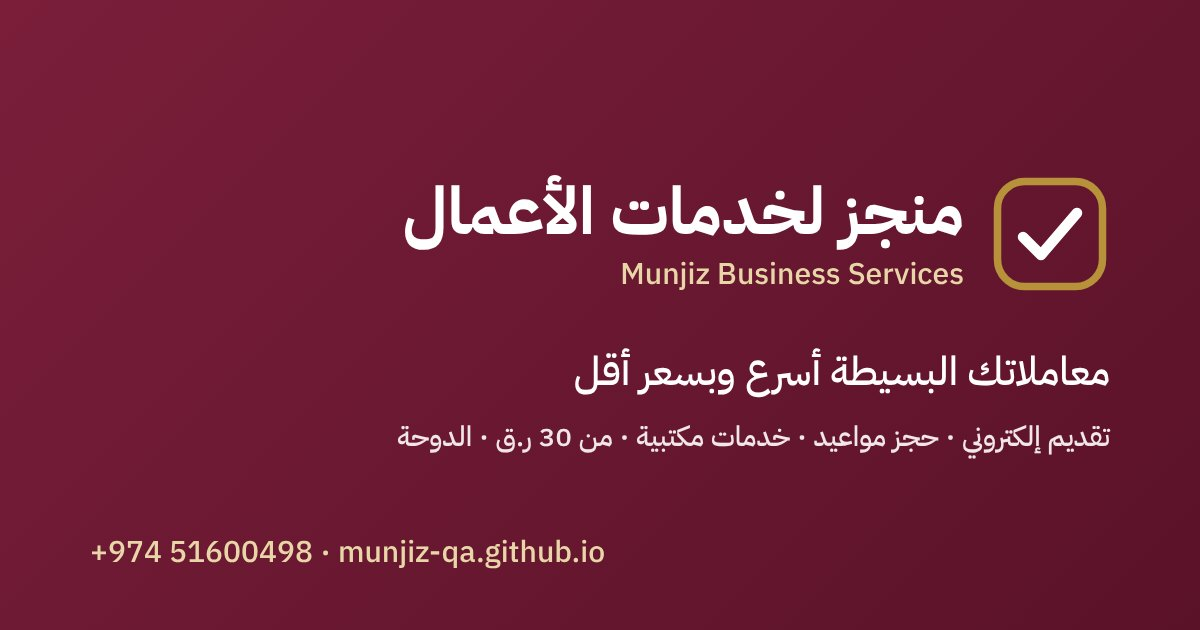
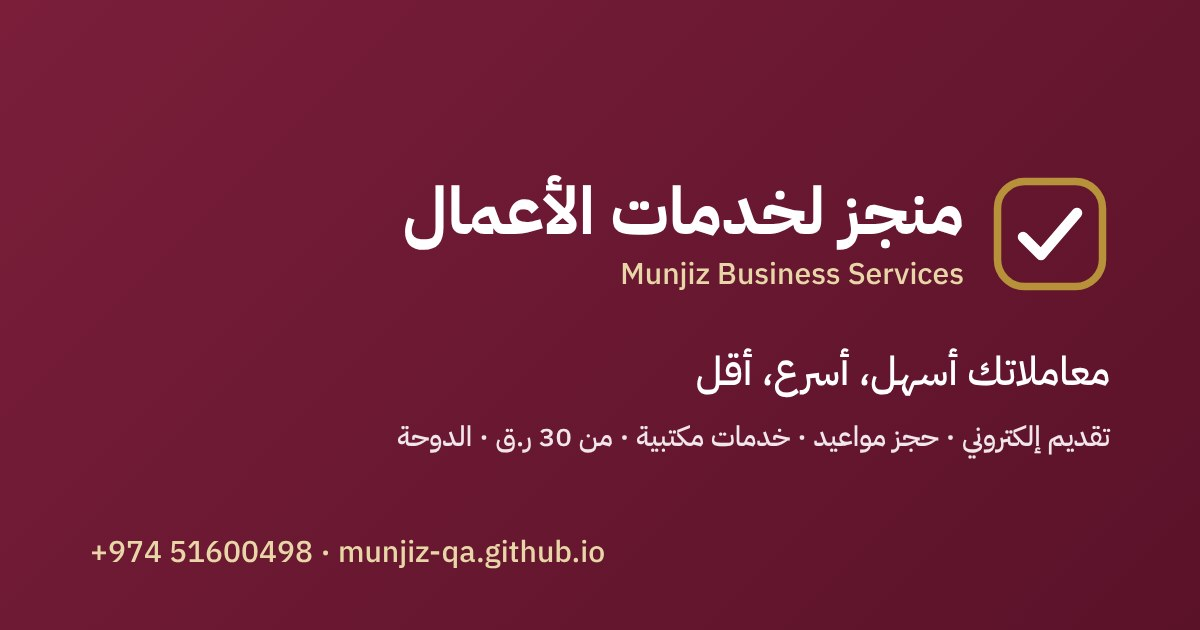
الشعار الجديد: معاملاتك أسهل، أسرع، أقل
Claude-Session: https://claude.ai/code/session_01X5QhTWfQsCsEYv7svNVuo8

Changed region(s): [[0.4625, 0.5429, 0.8017, 0.6333], [0.8325, 0.573, 0.8633, 0.6032]]

diff --git a/index.html b/index.html
@@ -6,10 +6,10 @@
 <title>منجز لخدمات الأعمال | خدمات حكومية مساعدة بأسعار مخفضة في الدوحة</title>
 <meta name="description" content="منجز لخدمات الأعمال في الدوحة: تقديم إلكتروني للمعاملات البسيطة وحجز مواعيد وخدمات مكتبية مساعدة بأسعار تبدأ من 30 ر.ق، وباقتان تبدأان من 490 ر.ق شهرياً.">
 <meta property="og:title" content="منجز لخدمات الأعمال">
-<meta property="og:description" content="من المعاملة إلى الإنجاز. خدمات حكومية مساعدة سريعة وبأسعار مخفضة في الدوحة.">
+<meta property="og:description" content="معاملاتك أسهل، أسرع، أقل. خدمات حكومية مساعدة سريعة وبأسعار مخفضة في الدوحة.">
 <meta property="og:type" content="website">
 <meta property="og:url" content="https://munjiz-qa.github.io/">
-<meta property="og:image" content="https://munjiz-qa.github.io/assets/og.jpg">
+<meta property="og:image" content="https://munjiz-qa.github.io/assets/og.jpg?v=2">
 <meta property="og:image:width" content="1200">
 <meta property="og:image:height" content="630">
 <meta property="og:locale" content="ar_QA">
@@ -19,7 +19,7 @@
 <link rel="apple-touch-icon" href="assets/icon-180.png">
 <link rel="manifest" href="manifest.webmanifest">
 <link rel="alternate" hreflang="x-default" href="https://munjiz-qa.github.io/">
-<script type="application/ld+json">{"@context": "https://schema.org", "@type": "ProfessionalService", "name": "منجز لخدمات الأعمال", "legalName": "منجز لخدمات الأعمال ذ.م.م", "alternateName": "Munjiz Business Services LLC", "url": "https://munjiz-qa.github.io/", "logo": "https://munjiz-qa.github.io/assets/icon-512.png", "image": "https://munjiz-qa.github.io/assets/og.jpg", "telephone": "+97451600498", "email": "munijizqa@gmail.com", "priceRange": "30–990 QAR", "currenciesAccepted": "QAR", "address": {"@type": "PostalAddress", "addressLocality": "Doha", "addressCountry": "QA"}, "areaServed": {"@type": "Country", "name": "Qatar"}, "availableLanguage": ["ar", "en"], "description": "خدمات حكومية مساعدة في الدوحة: تقديم إلكتروني للمعاملات البسيطة، حجز مواعيد، تعبئة نماذج وخدمات مكتبية بأسعار تبدأ من 30 ر.ق."}</script>
+<script type="application/ld+json">{"@context": "https://schema.org", "@type": "ProfessionalService", "name": "منجز لخدمات الأعمال", "legalName": "منجز لخدمات الأعمال ذ.م.م", "alternateName": "Munjiz Business Services LLC", "url": "https://munjiz-qa.github.io/", "logo": "https://munjiz-qa.github.io/assets/icon-512.png", "image": "https://munjiz-qa.github.io/assets/og.jpg?v=2", "telephone": "+97451600498", "email": "munijizqa@gmail.com", "priceRange": "30–990 QAR", "currenciesAccepted": "QAR", "address": {"@type": "PostalAddress", "addressLocality": "Doha", "addressCountry": "QA"}, "areaServed": {"@type": "Country", "name": "Qatar"}, "availableLanguage": ["ar", "en"], "description": "خدمات حكومية مساعدة في الدوحة: تقديم إلكتروني للمعاملات البسيطة، حجز مواعيد، تعبئة نماذج وخدمات مكتبية بأسعار تبدأ من 30 ر.ق."}</script>
 <link rel="canonical" href="https://munjiz-qa.github.io/">
 <link rel="alternate" hreflang="ar" href="https://munjiz-qa.github.io/">
 <link rel="alternate" hreflang="en" href="https://munjiz-qa.github.io/en/">
@@ -48,7 +48,7 @@
 
 <section class="hero" id="home"><div class="wrap">
   <div>
-    <h1>معاملاتك البسيطة <em>أسرع وبسعر أقل</em></h1>
+    <h1>معاملاتك <em>أسهل، أسرع، أقل</em></h1>
     <p>منجز لخدمات الأعمال مكتب خدمات حكومية مساعدة في الدوحة. نقدم التقديم الإلكتروني للمعاملات البسيطة، وحجز المواعيد، وتعبئة النماذج، والخدمات المكتبية، بأسعار تبدأ من 30 ر.ق.</p>
     <div class="cta"><a class="btn pri" href="#services">استعرض الخدمات والأسعار</a><a class="btn ghost" href="#request">اطلب عرض سعر</a></div>
     <p class="trust">شفافية ووضوح في التعامل · الطلب على واتساب أو البريد</p>

diff --git a/en/index.html b/en/index.html
@@ -6,10 +6,10 @@
 <title>Munjiz Business Services | Low-cost supporting government services in Doha</title>
 <meta name="description" content="Munjiz Business Services in Doha: online submission of simple government transactions, appointment booking and office services from 30 QAR, with two packages from 490 QAR a month.">
 <meta property="og:title" content="Munjiz Business Services">
-<meta property="og:description" content="From transaction to done. Fast, low-cost supporting government services in Doha.">
+<meta property="og:description" content="Your transactions: easier, faster, for less. Fast, low-cost supporting government services in Doha.">
 <meta property="og:type" content="website">
 <meta property="og:url" content="https://munjiz-qa.github.io/en/">
-<meta property="og:image" content="https://munjiz-qa.github.io/assets/og.jpg">
+<meta property="og:image" content="https://munjiz-qa.github.io/assets/og.jpg?v=2">
 <meta property="og:image:width" content="1200">
 <meta property="og:image:height" content="630">
 <meta property="og:locale" content="en_US">
@@ -19,7 +19,7 @@
 <link rel="apple-touch-icon" href="../assets/icon-180.png">
 <link rel="manifest" href="../manifest.webmanifest">
 <link rel="alternate" hreflang="x-default" href="https://munjiz-qa.github.io/">
-<script type="application/ld+json">{"@context": "https://schema.org", "@type": "ProfessionalService", "name": "منجز لخدمات الأعمال", "legalName": "منجز لخدمات الأعمال ذ.م.م", "alternateName": "Munjiz Business Services LLC", "url": "https://munjiz-qa.github.io/", "logo": "https://munjiz-qa.github.io/assets/icon-512.png", "image": "https://munjiz-qa.github.io/assets/og.jpg", "telephone": "+97451600498", "email": "munijizqa@gmail.com", "priceRange": "30–990 QAR", "currenciesAccepted": "QAR", "address": {"@type": "PostalAddress", "addressLocality": "Doha", "addressCountry": "QA"}, "areaServed": {"@type": "Country", "name": "Qatar"}, "availableLanguage": ["ar", "en"], "description": "خدمات حكومية مساعدة في الدوحة: تقديم إلكتروني للمعاملات البسيطة، حجز مواعيد، تعبئة نماذج وخدمات مكتبية بأسعار تبدأ من 30 ر.ق."}</script>
+<script type="application/ld+json">{"@context": "https://schema.org", "@type": "ProfessionalService", "name": "منجز لخدمات الأعمال", "legalName": "منجز لخدمات الأعمال ذ.م.م", "alternateName": "Munjiz Business Services LLC", "url": "https://munjiz-qa.github.io/", "logo": "https://munjiz-qa.github.io/assets/icon-512.png", "image": "https://munjiz-qa.github.io/assets/og.jpg?v=2", "telephone": "+97451600498", "email": "munijizqa@gmail.com", "priceRange": "30–990 QAR", "currenciesAccepted": "QAR", "address": {"@type": "PostalAddress", "addressLocality": "Doha", "addressCountry": "QA"}, "areaServed": {"@type": "Country", "name": "Qatar"}, "availableLanguage": ["ar", "en"], "description": "خدمات حكومية مساعدة في الدوحة: تقديم إلكتروني للمعاملات البسيطة، حجز مواعيد، تعبئة نماذج وخدمات مكتبية بأسعار تبدأ من 30 ر.ق."}</script>
 <link rel="canonical" href="https://munjiz-qa.github.io/en/">
 <link rel="alternate" hreflang="en" href="https://munjiz-qa.github.io/en/">
 <link rel="alternate" hreflang="ar" href="https://munjiz-qa.github.io/">
@@ -48,7 +48,7 @@
 
 <section class="hero" id="home"><div class="wrap">
   <div>
-    <h1>Your simple transactions, <em>faster and for less</em></h1>
+    <h1>Your transactions: <em>easier, faster, for less</em></h1>
     <p>Munjiz Business Services is a supporting government services office in Doha. We submit simple transactions online, book appointments, fill in forms and handle office services, with prices from 30 QAR.</p>
     <div class="cta"><a class="btn pri" href="#services">See services and prices</a><a class="btn ghost" href="#request">Get a quote</a></div>
     <p class="trust">Transparency and clarity in every dealing · Order by WhatsApp or email</p>
